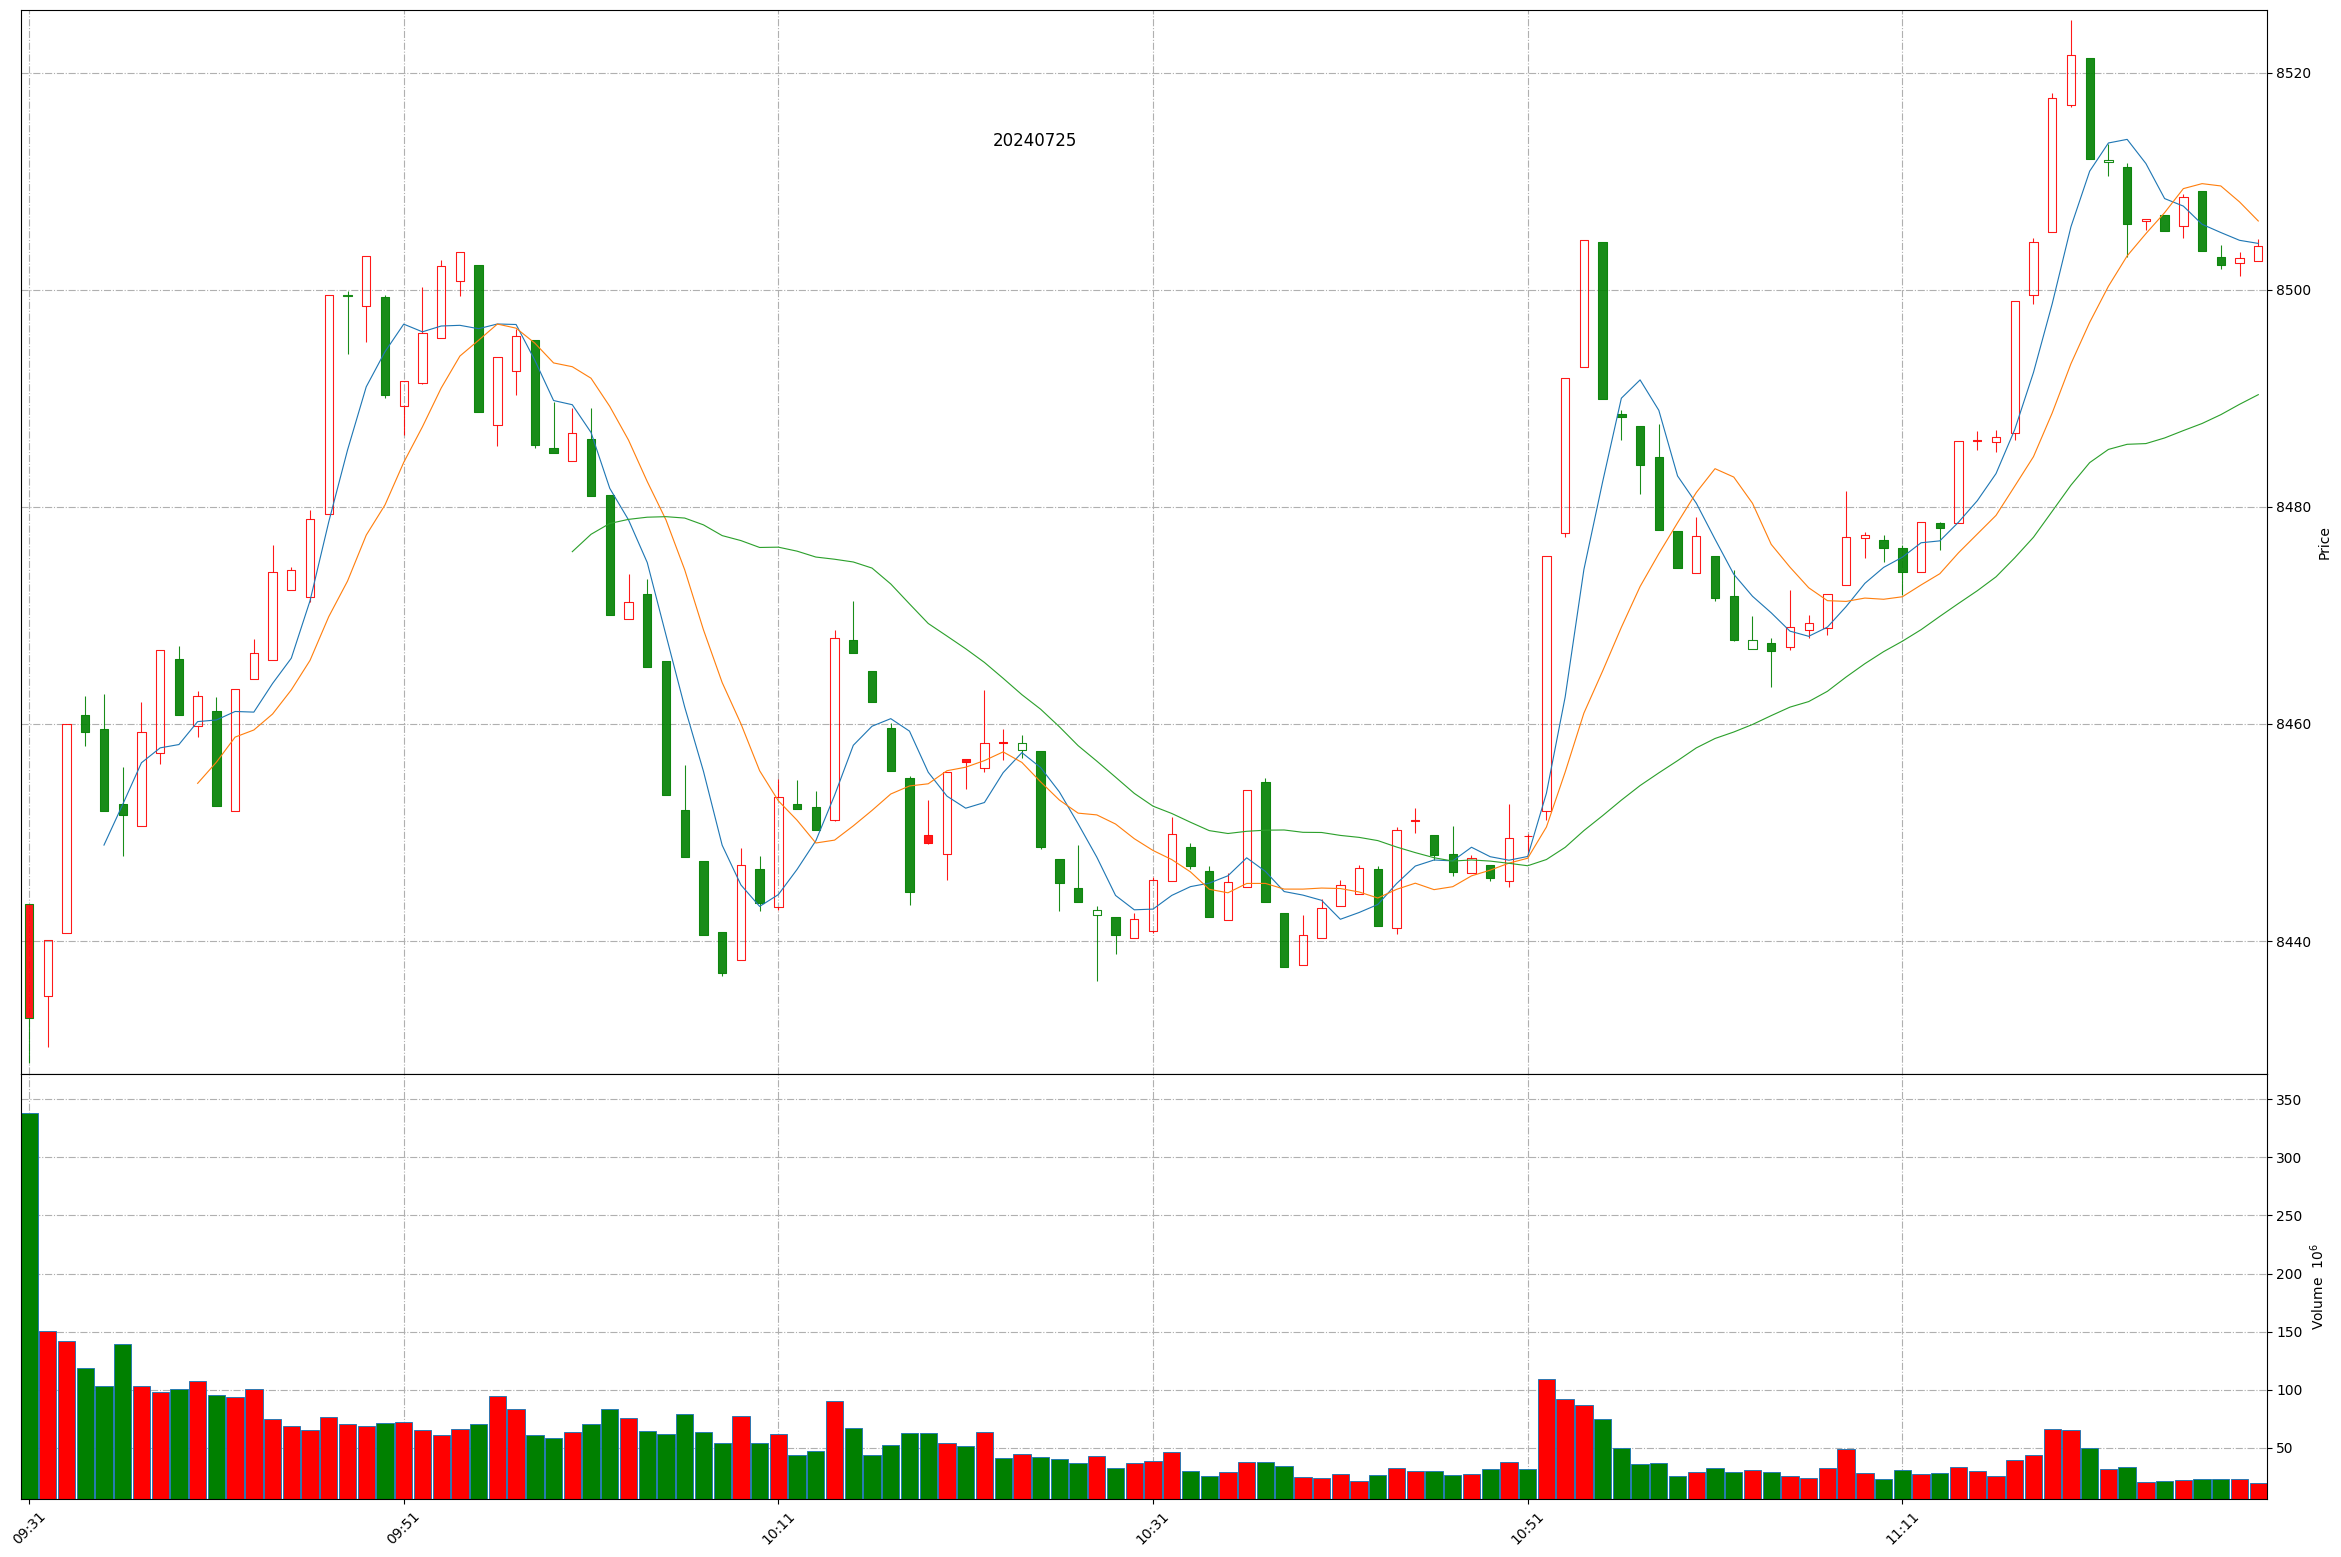
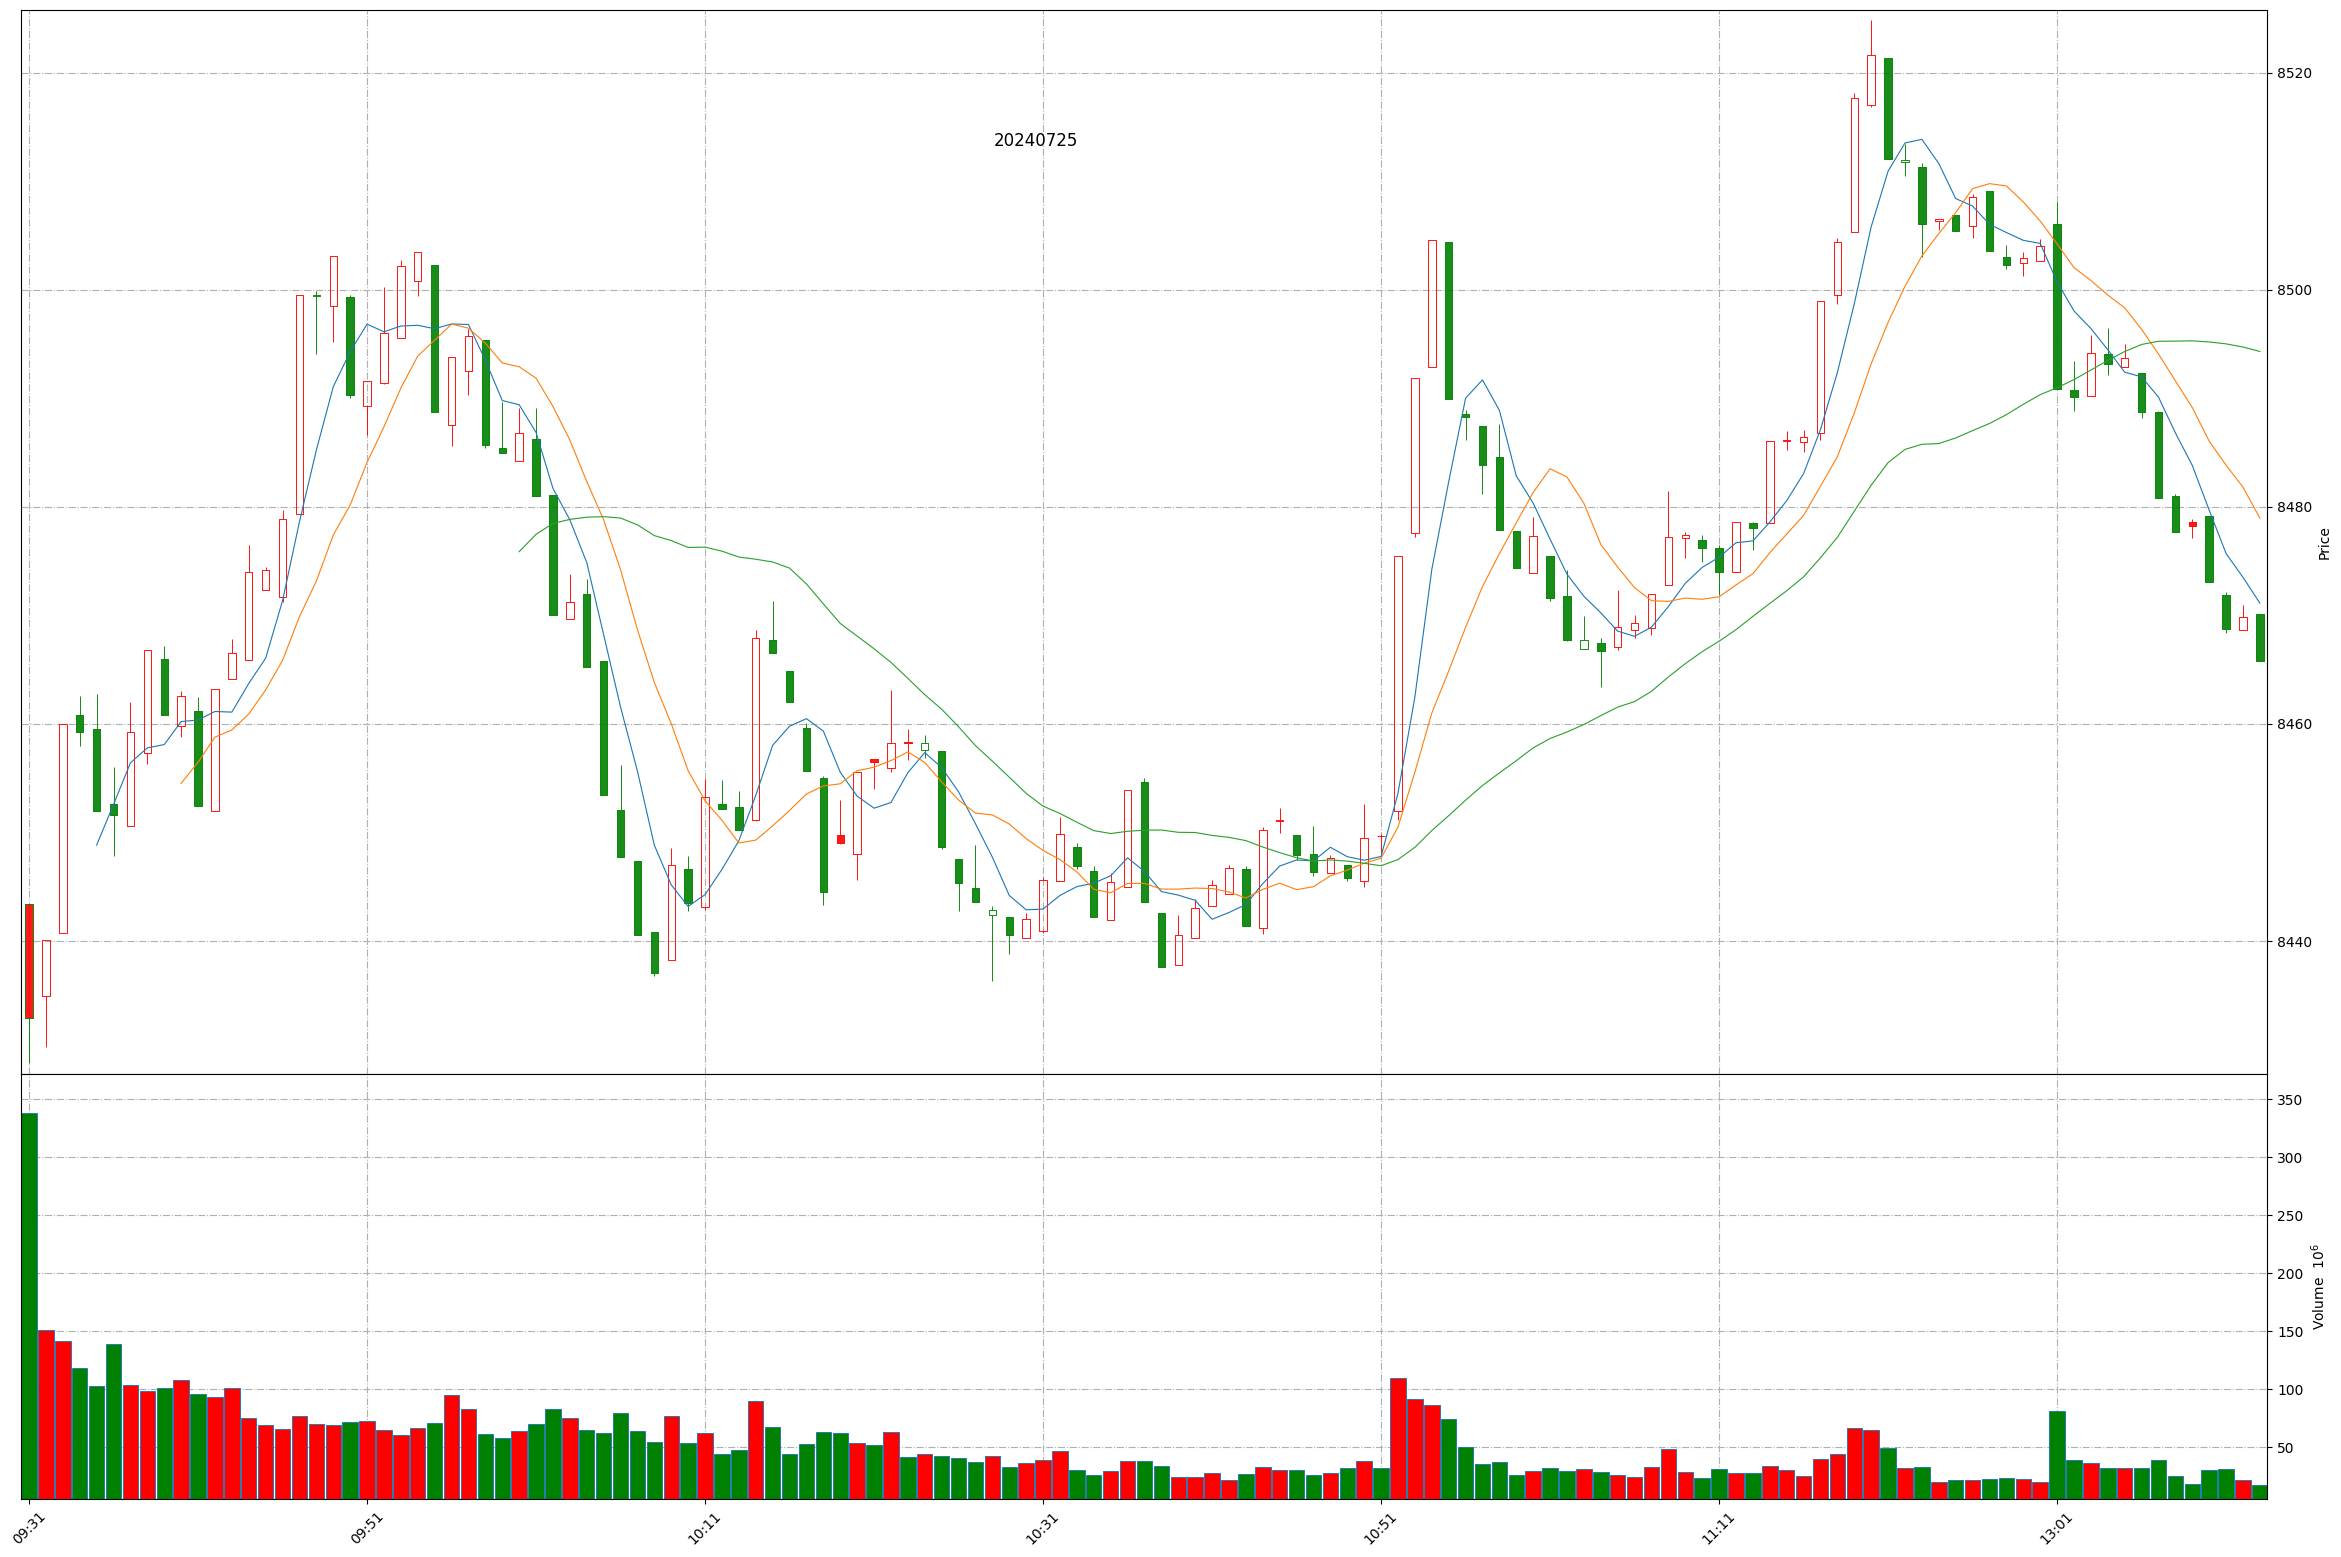
Github action update at 2024-07-25 13:13:16.

diff --git a/README.md b/README.md
@@ -1,11 +1,11 @@
 
 # Daily-A-share-market-quotes 每日 A 股指数（5min 更新）- 20240725
 
-### 上证指数 20240725 11:36
+### 上证指数 20240725 13:13
 ![](./fig/2024/7/20240725-sh000001.png)
 
-### 深证成指 20240725 11:36
+### 深证成指 20240725 13:13
 ![](./fig/2024/7/20240725-sz399001.png)
 
-### 北证50 20240725 11:36
+### 北证50 20240725 13:13
 ![](./fig/2024/7/20240725-bj899050.png)
